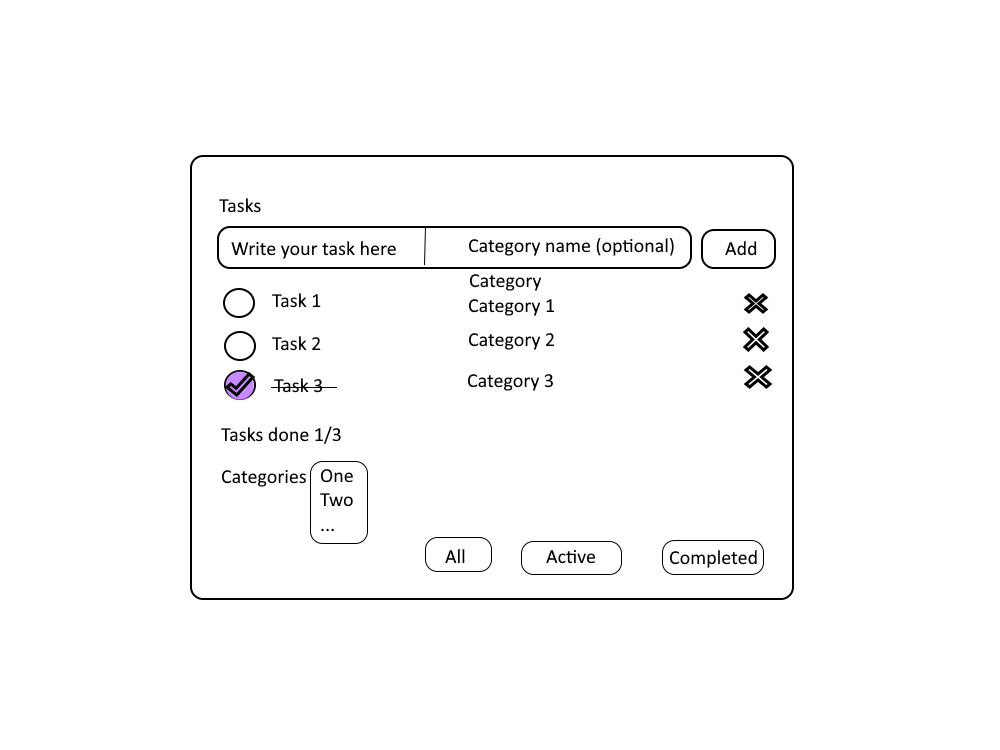
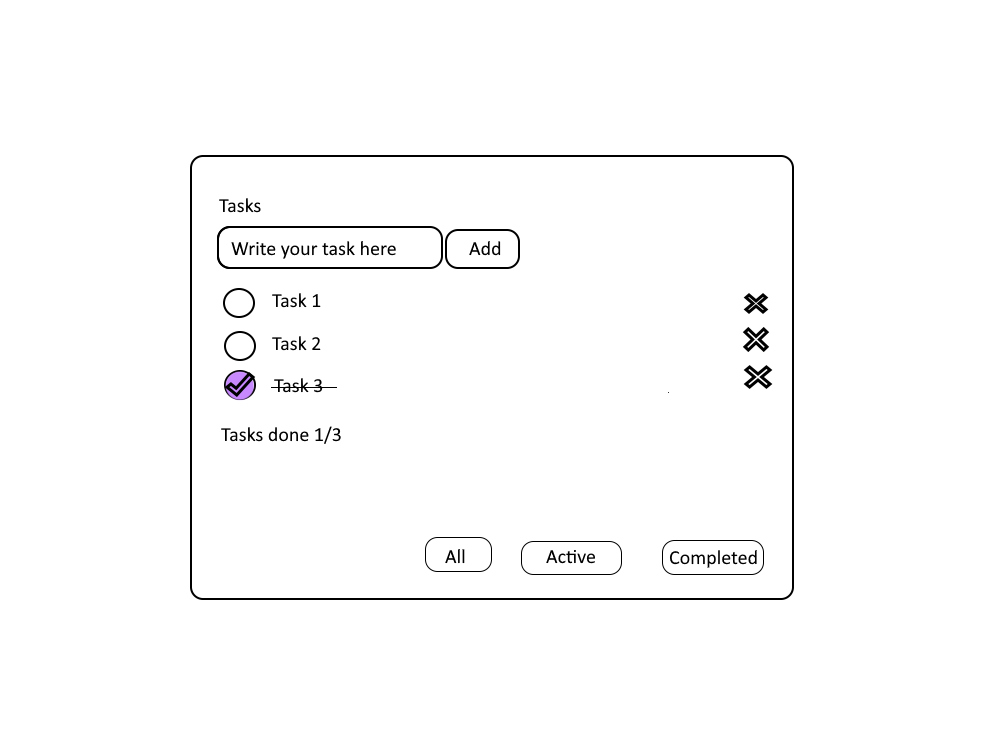
Getting rid of the category idea, adding button functions and updating readme.

diff --git a/js/script.js b/js/script.js
@@ -1,41 +1,38 @@
+//Creating needed variables
 const inputTask = document.getElementById("inputTask");
-const inputCategory = document.getElementById("inputCategory");
 const addButton = document.getElementById("addButton");
-const taskList = document.querySelector("#taskList")
-const categorySelect = document.querySelector("#categorySelect");
+const taskList = document.querySelector("#taskList");
+const showAll = document.querySelector("#showAll");
+const activeButton = document.querySelector("#active");
+const completedButton = document.querySelector("#completed");
 
+//Adding needed variables for tasks
 addButton.addEventListener("click",function(){
     const task = inputTask.value;
-    const category = inputCategory.value;
     const newTask = document.createElement("li");
-    const newCategory = document.createElement("option");
     const checkbox = document.createElement("input");
     checkbox.type = "checkbox";
     checkbox.addEventListener("change", taskDone);
-
+//Check that the task is over 2 characters long
     if(task.length < 3){
         inputTask.style.border = "2px solid red";
+        alert("The task needs to be at least 3 characters long!")
     }
     else{
-        if (category != ""){
-            newTask.id = category;
-            newCategory.textContent =category;
-            categorySelect.appendChild(newCategory);
-        }
+//Addind the tasks and clearing input
         inputTask.style.border = "";
         newTask.appendChild(checkbox);
         newTask.appendChild(document.createTextNode(task));
         taskList.appendChild(newTask);
         inputTask.value = "";
-        inputCategory.value = "";
         taskDone();
     }
 });
 
+//Function to check how many tasks are done and display the number under the tasks
 function taskDone() {
     const checkboxes = document.querySelectorAll('input[type="checkbox"]');
     let tasksDone = 0;
-
     for (let checkbox of checkboxes) {
         if(checkbox.checked){
             tasksDone = tasksDone + 1;
@@ -45,3 +42,33 @@ function taskDone() {
     document.getElementById("taskDone").textContent = tasksDone + "/" + allTasks;
 };
 
+//Function to show all tasks
+function showList(){
+    const tasks = document.querySelectorAll("#taskList li");
+    for (let task of tasks){
+        task.hidden = false;
+    }
+};
+
+//To use the function when showall button is pressed
+showAll.addEventListener("click", function(){
+    showList();
+});
+
+//Show only tasks that that are not done when button is pressed
+activeButton.addEventListener("click", function(){
+    const checkboxes = document.querySelectorAll('input[type="checkbox"]:checked');
+    showList();
+    for (let checkbox of checkboxes){
+        checkbox.parentElement.hidden = true;
+    }
+});
+
+//Show only tasks that are done when button is pressed
+completedButton.addEventListener("click", function(){
+    showList();
+    const checkboxes = document.querySelectorAll('input[type="checkbox"]:not(:checked');
+    for (let checkbox of checkboxes){
+        checkbox.parentElement.hidden = true;
+    }
+});

diff --git a/index.html b/index.html
@@ -11,20 +11,14 @@
     <h1>Tasks: </h1>
 
     <input type="text" name="inputTask" id="inputTask" placeholder="Write your task here (min. 3 letters)" size="40">
-    <input type="text" name="inputCategory" id="inputCategory" placeholder="Category name (optional)">
     <button id="addButton">Add</button>
 
     <ul id="taskList">
 
     </ul>
 
-    <p>Tasks done <span id="taskDone">0</span></p>
-    <p>Categories:</p>
-
-    <select id="categorySelect">
-        <option value="defaultCategory">Select category</option>
-    </select>
-
+    <p>Tasks done <span id="taskDone">0/0</span></p>
+    
     <button id="showAll">All</button>
     <button id="active">Active</button>
     <button id="completed">Completed</button>

diff --git a/README.md b/README.md
@@ -6,15 +6,16 @@
 
 ### Projektin idea
 
-Kuvaile lyhyesti, mitä sovelluksesi tekee ja kenelle se on tarkoitettu.
+Sovellus mihin voi merkata tehtäviä, mitä pitää suorittaa. Tehtävät merkataan valmiiksi kun ne ovat suoritettu. Sovellus sopii esimeksiksi opiskelijalle, jolla on paljon kurssitehtäviä.
 
 ### Suunnitellut toiminnot
 
 Listaa vähintään kolme sovellukseesi suunniteltua toimintoa:
 
-- Toiminto 1
-- Toiminto 2
-- Toiminto 3
+- Toiminto 1: Lisää tehtäviä.
+- Toiminto 2: Poista tehtäviä.
+- Toiminto 3: Merkkaa tehtävät valmiiksi.
+- Toiminto 4: Fitteröi tehtäviä Valimis/Kesken nappulalla.
 
 ### Rautalankamalli / luonnos
 
@@ -32,7 +33,7 @@ Esimerkki kuvan lisäämisestä:
 
 ## Tietoja sovelluksesta
 
-**[Projektin nimi]** on verkkosovellus, joka ...
+**[To Do]** on verkkosovellus, joka ...
 
 Kuvaile lyhyesti sovelluksen tarkoitus ja tärkeimmät toiminnot.
 
